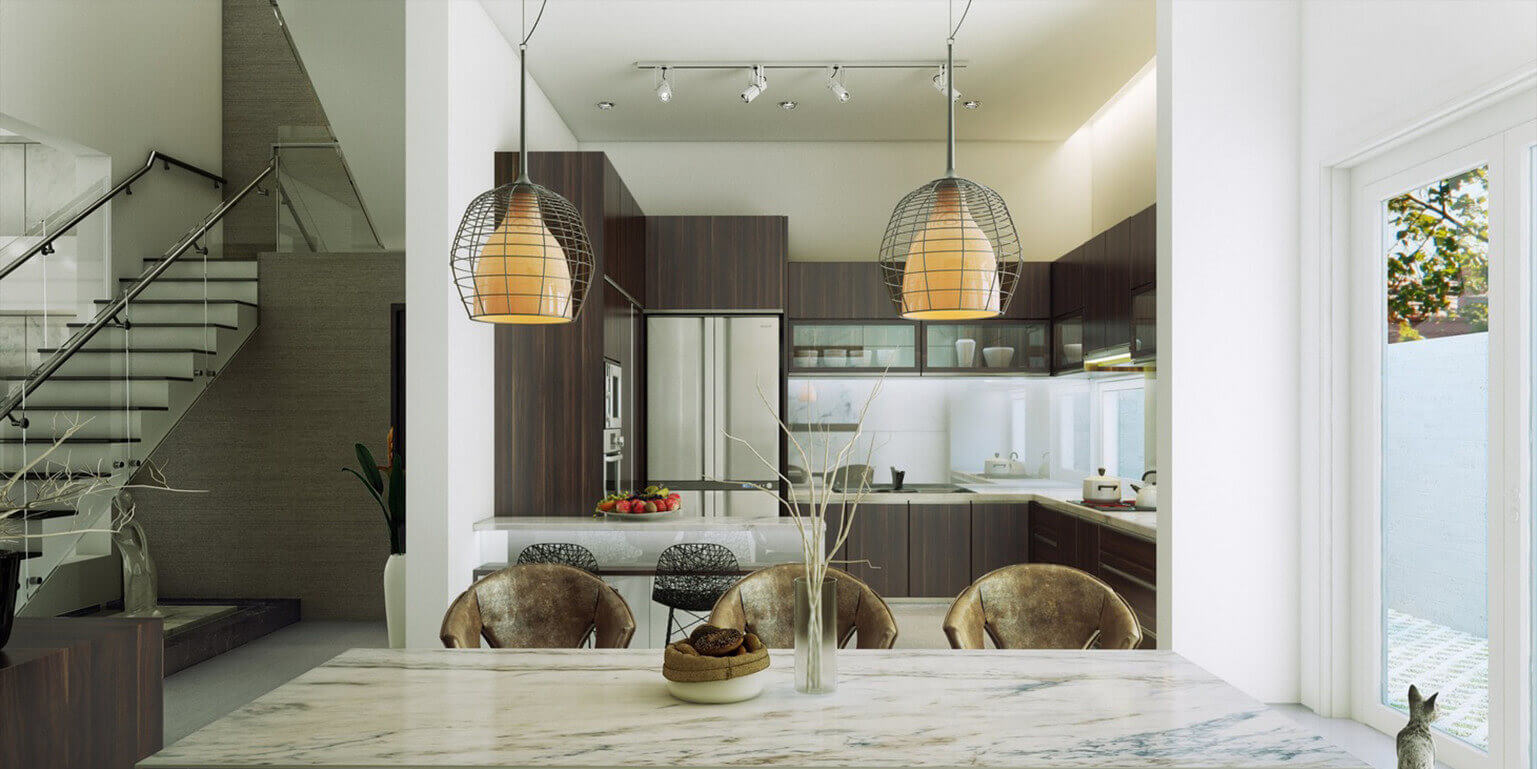
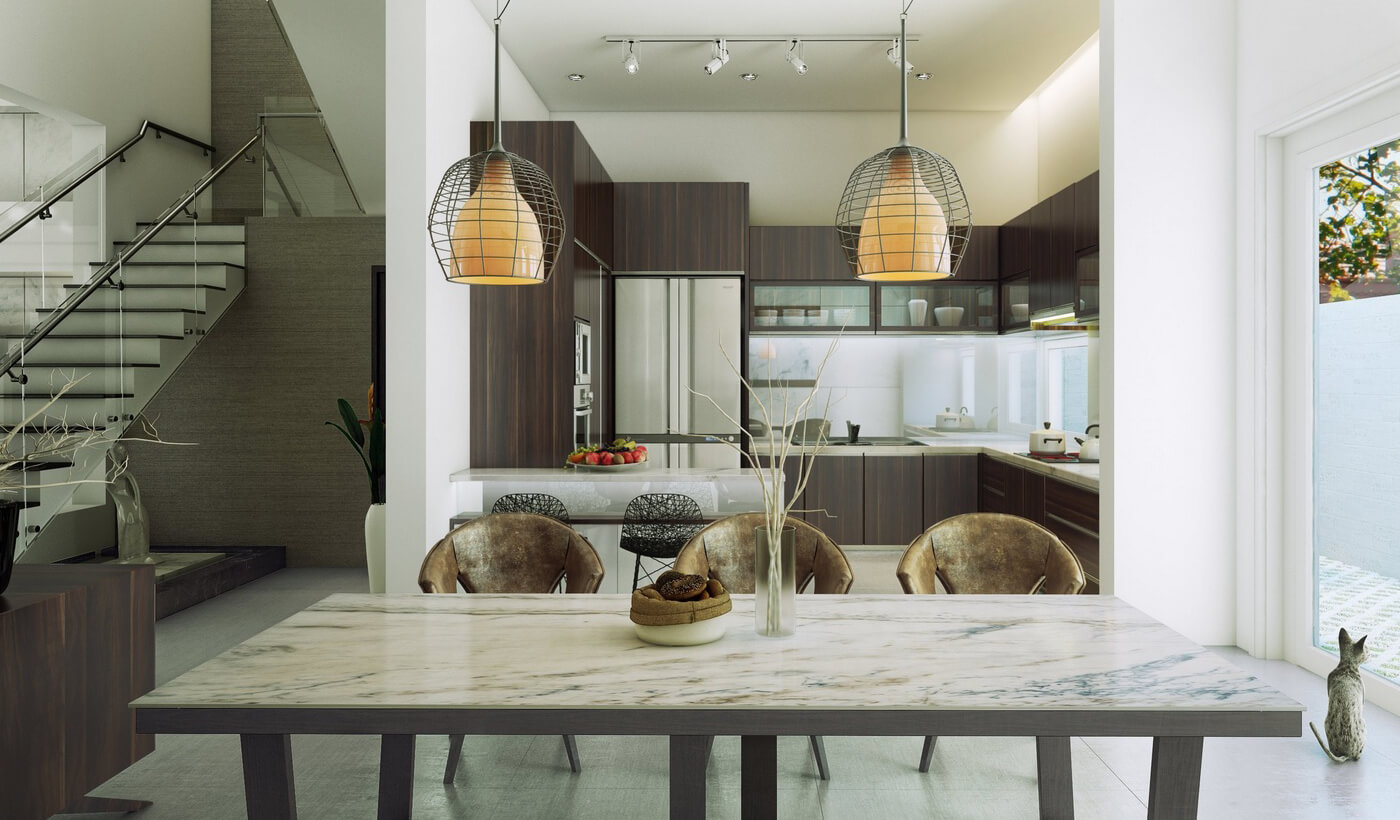
Update slider images

diff --git a/src/index.html b/src/index.html
@@ -15,11 +15,12 @@
   <body>
     <div class="modal-wrapper">
       <div class="riservata-modal">
-        <h1 class="riservata-modal__header">Area riservata</h1>
+        <!-- I didnt use here <h1> because this is not top-level heading -->
+        <h2 class="riservata-modal__header">Area riservata</h2>
         <button class="riservata-modal__close" title="Close"></button>
         <div class="riservata-modal__content">
           <section class="riservata-modal__section">
-            <h2 class="riservata-modal__section-header">ACCEDI</h2>
+            <h3 class="riservata-modal__section-header">ACCEDI</h3>
             <form id="loginForm" class="riservata-modal__form">
               <input
                 type="email"
@@ -40,7 +41,7 @@
             </form>
           </section>
           <section class="riservata-modal__section">
-            <h2 class="riservata-modal__section-header">REGISTRATI</h2>
+            <h3 class="riservata-modal__section-header">REGISTRATI</h3>
             <form id="registrationForm" class="riservata-modal__form">
               <input
                 type="text"
@@ -132,13 +133,11 @@
             elit, sed do eiusmod tempor dolore
           </p>
         </aside>
-
         <div class="home__slider-controls slider__controls">
           <a href="#" data-img="./img/main-bg-1.jpeg" class="slider__button slider__button--active" title="Slide 1"></a>
           <a href="#" data-img="./img/main-bg-2.jpeg" class="slider__button" title="Slide 2"></a>
           <a href="#" data-img="./img/main-bg-3.jpeg" class="slider__button" title="Slide 3"></a>
         </div>
-
         <div class="post-dropup home__post-dropup">
           <button class="post-dropup__switch" title="Show posts"></button>
           <div class="post-dropup__content">

diff --git a/src/css/main.css b/src/css/main.css
@@ -286,15 +286,18 @@ a:active {
 /* *** slider *** */
 
 .slider {
-  /* FIXME: wrong bg size and pos */
   background-color: #9a998e;
   background-image: url("../img/main-bg-1.jpeg");
   background-position: center;
   background-repeat: no-repeat;
-  /* background-size: cover; */
 
-  /* FIXME: firefox cant do this transition (chrome and opera can)*/
   transition: background-image 500ms linear;
+}
+
+@media (min-width: 1400px) {
+  .slider {
+    background-size: cover;
+  }
 }
 
 .slider__controls {
@@ -814,12 +817,6 @@ a:active {
 }
 
 /* ****************** MEDIA ****************** */
-
-@media (min-width: 1530px) {
-  .slider {
-    background-size: cover;
-  }
-}
 
 @media (max-width: 1240px) {
   .container {

diff --git a/README.md b/README.md
@@ -1,6 +1,6 @@
 mmlampadari
 ===========
-ADCI test task: https://github.com/ADCI/frontend-junior-initial-task
+ADCI test task solution: https://github.com/ADCI/frontend-junior-initial-task
 
 Run
 ---
@@ -11,15 +11,6 @@ gulp serve
 
 TODO
 ----
-- [x] base styles for a, h1, h2, ...
-- [x] :hover, :active, :focus for all links
+- [ ] spritesheet for icons
 - [ ] configure linters, formatters and validators
-  - [x] hotreload
-  - [x] gulp-w3c-html-validator
-  - [ ] stylelint ?
-  - [ ] ESLint ?
-  - [x] Prettier
-  - [ ] postcss (autoprefixer, sorting)
-  - [ ] spritesheet for icons
-- [ ] use Twig templates ?
-- [ ] split css into separate files, may be use scss
+- [ ] dont keep all in single css and html file
